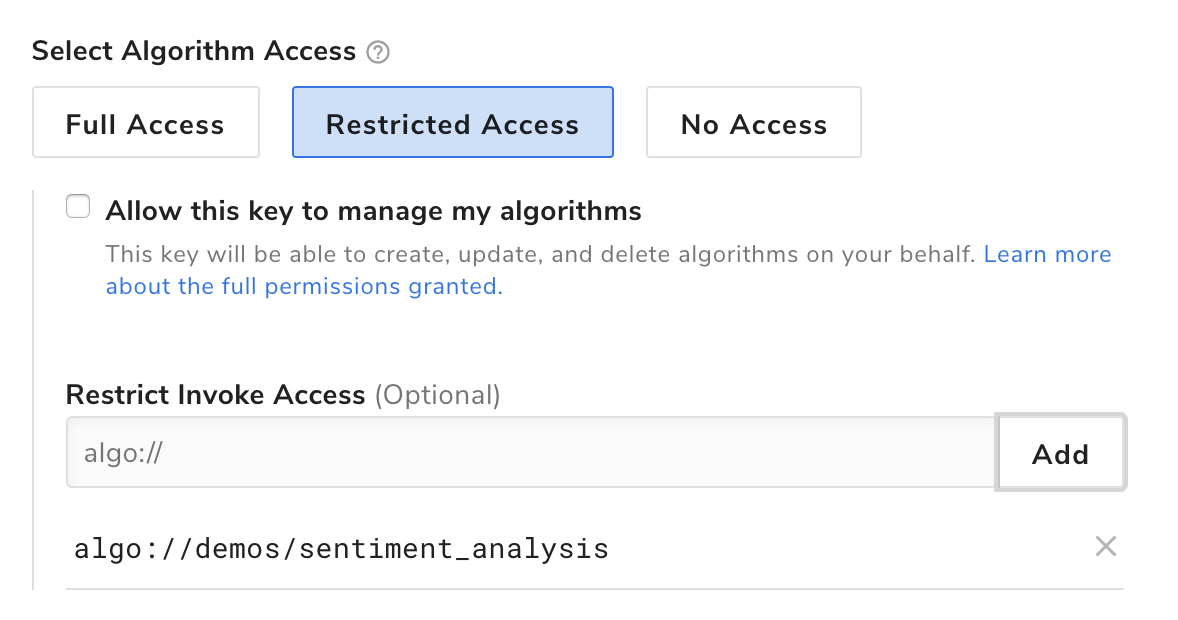
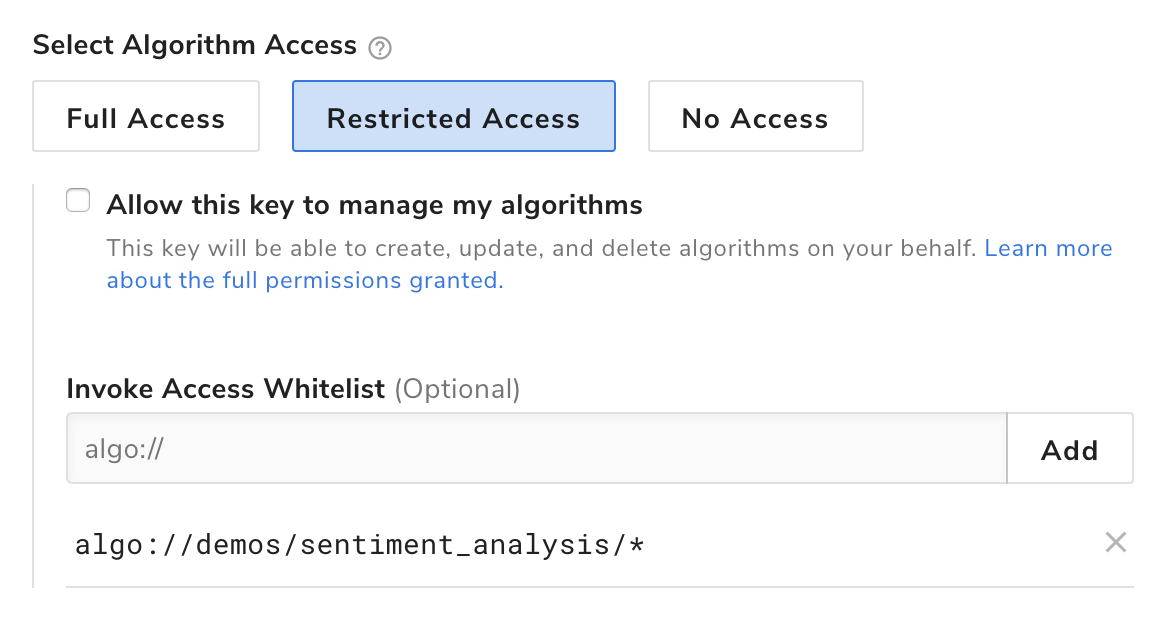
UXENG-2257 Update api-keys page with new screenshots of new UI

diff --git a/_pages/platform/customizing-api-keys.md b/_pages/platform/customizing-api-keys.md
@@ -58,7 +58,7 @@ If I wanted to restrict this API key to the algorithm "sentiment_analysis". I'll
 
 <img src="{{site.cdnurl}}{{site.baseurl}}/images/post_images/api_keys/algo_restrictions_no_star.png" alt="caller origin" class="screenshot img-sm">
 
-By default, any key can call any algorithm on the platform. You can see in the below screenshot that under the Algorithm Access section, there is an entry `algo://*`, which is highlighted. This is a wildcard that matches all of the algorithms. To make sure your key is restricted to calling only the algorithms you've specified, be sure to remove this wildcard entry by clicking on the "X" icon.
+By default, any key can call any algorithm on the platform. You can see in the below screenshot that under the Algorithm Access section, there is an entry `algo://*`. This is a wildcard that matches all of the algorithms. To make sure your key is restricted to calling only the algorithms you've specified, be sure to remove this wildcard entry by clicking on the "X" icon. In cases where an entry is a subset of another entry, and therefore redundant, a warning will appear letting you know that it will have no effect. Here you can see that `algo://demos/sentiment_analysis` has no effect due to the precence of `algo://*`
 
 <img src="{{site.cdnurl}}{{site.baseurl}}/images/post_images/api_keys/algo_restrictions.png" alt="caller origin" class="screenshot img-sm">
 
